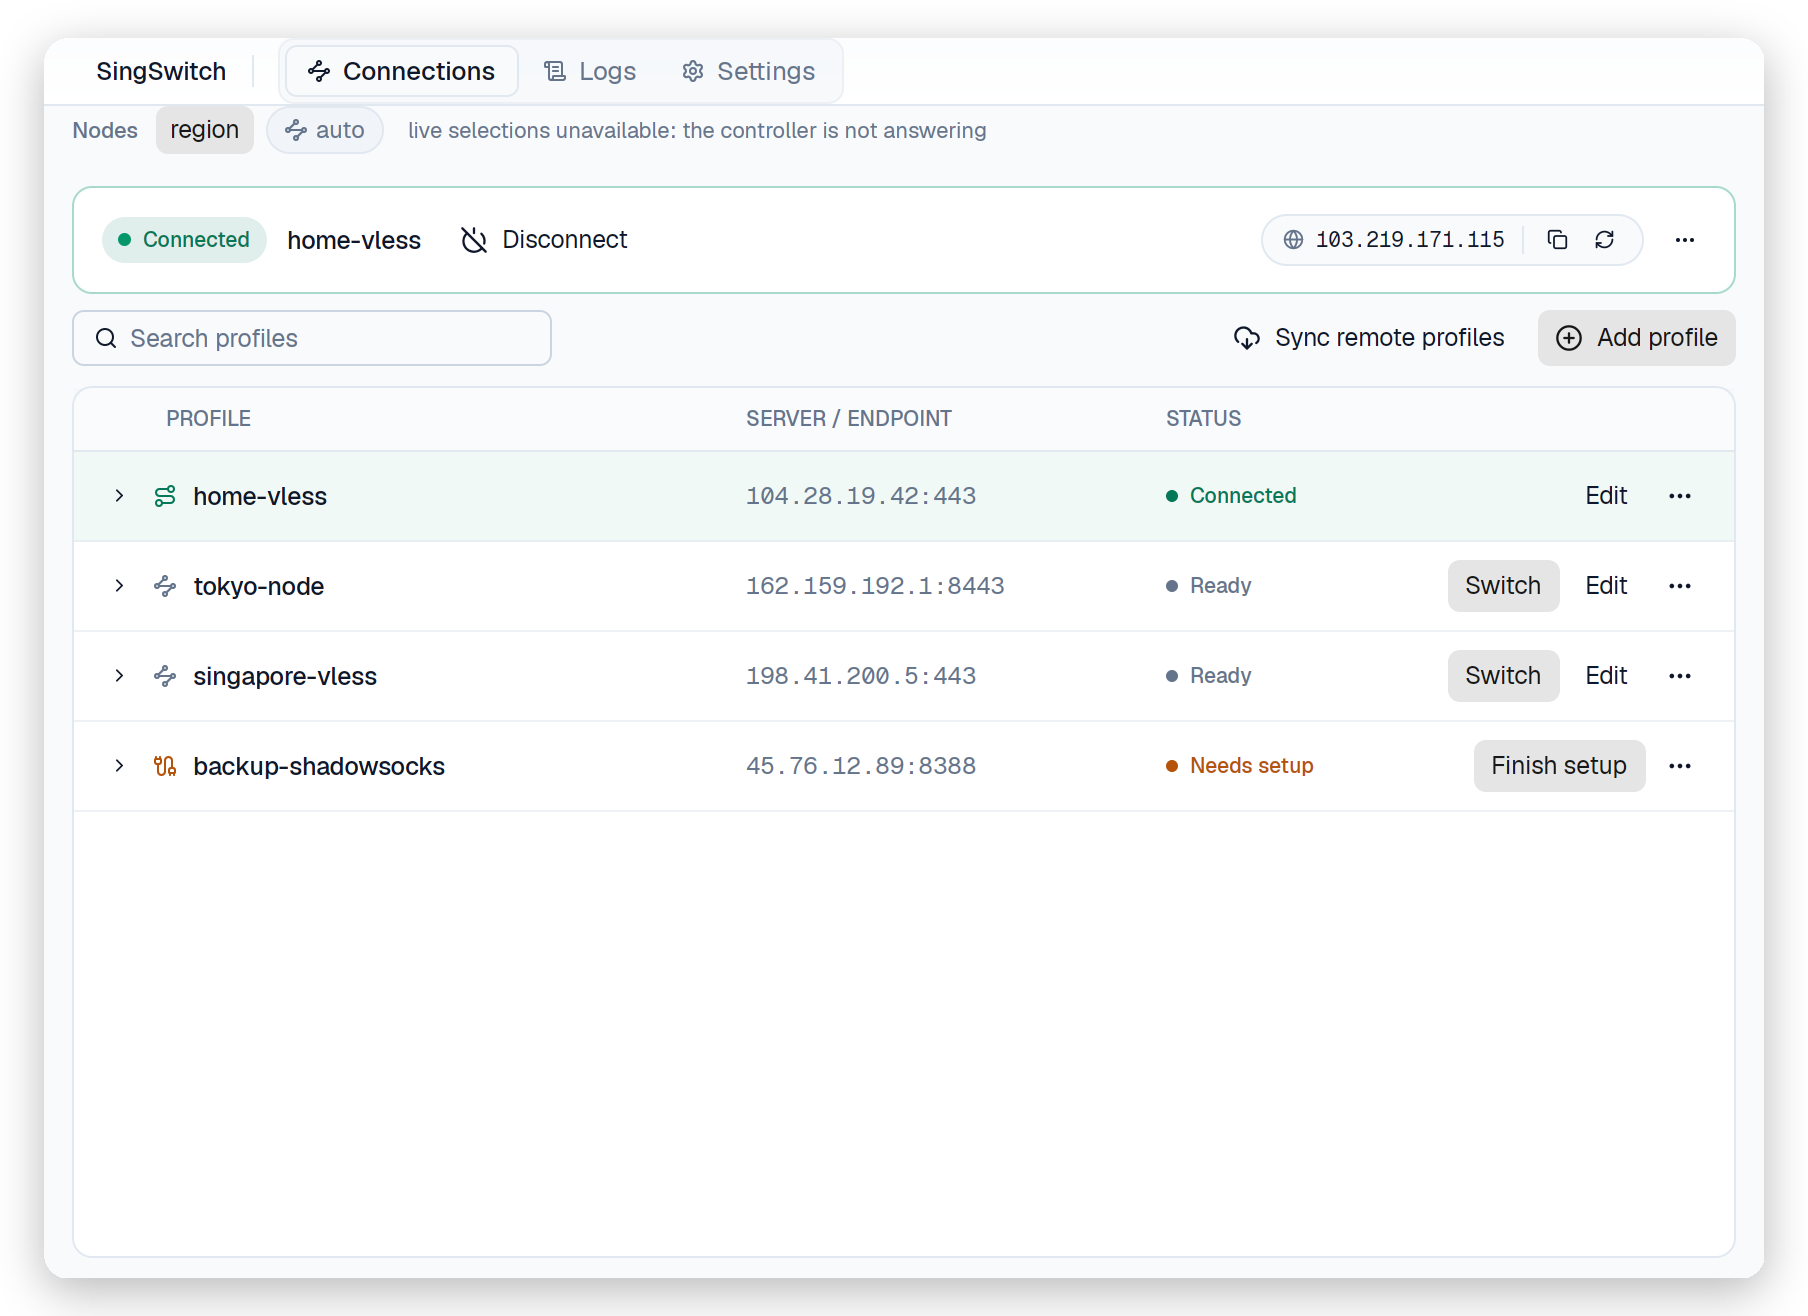
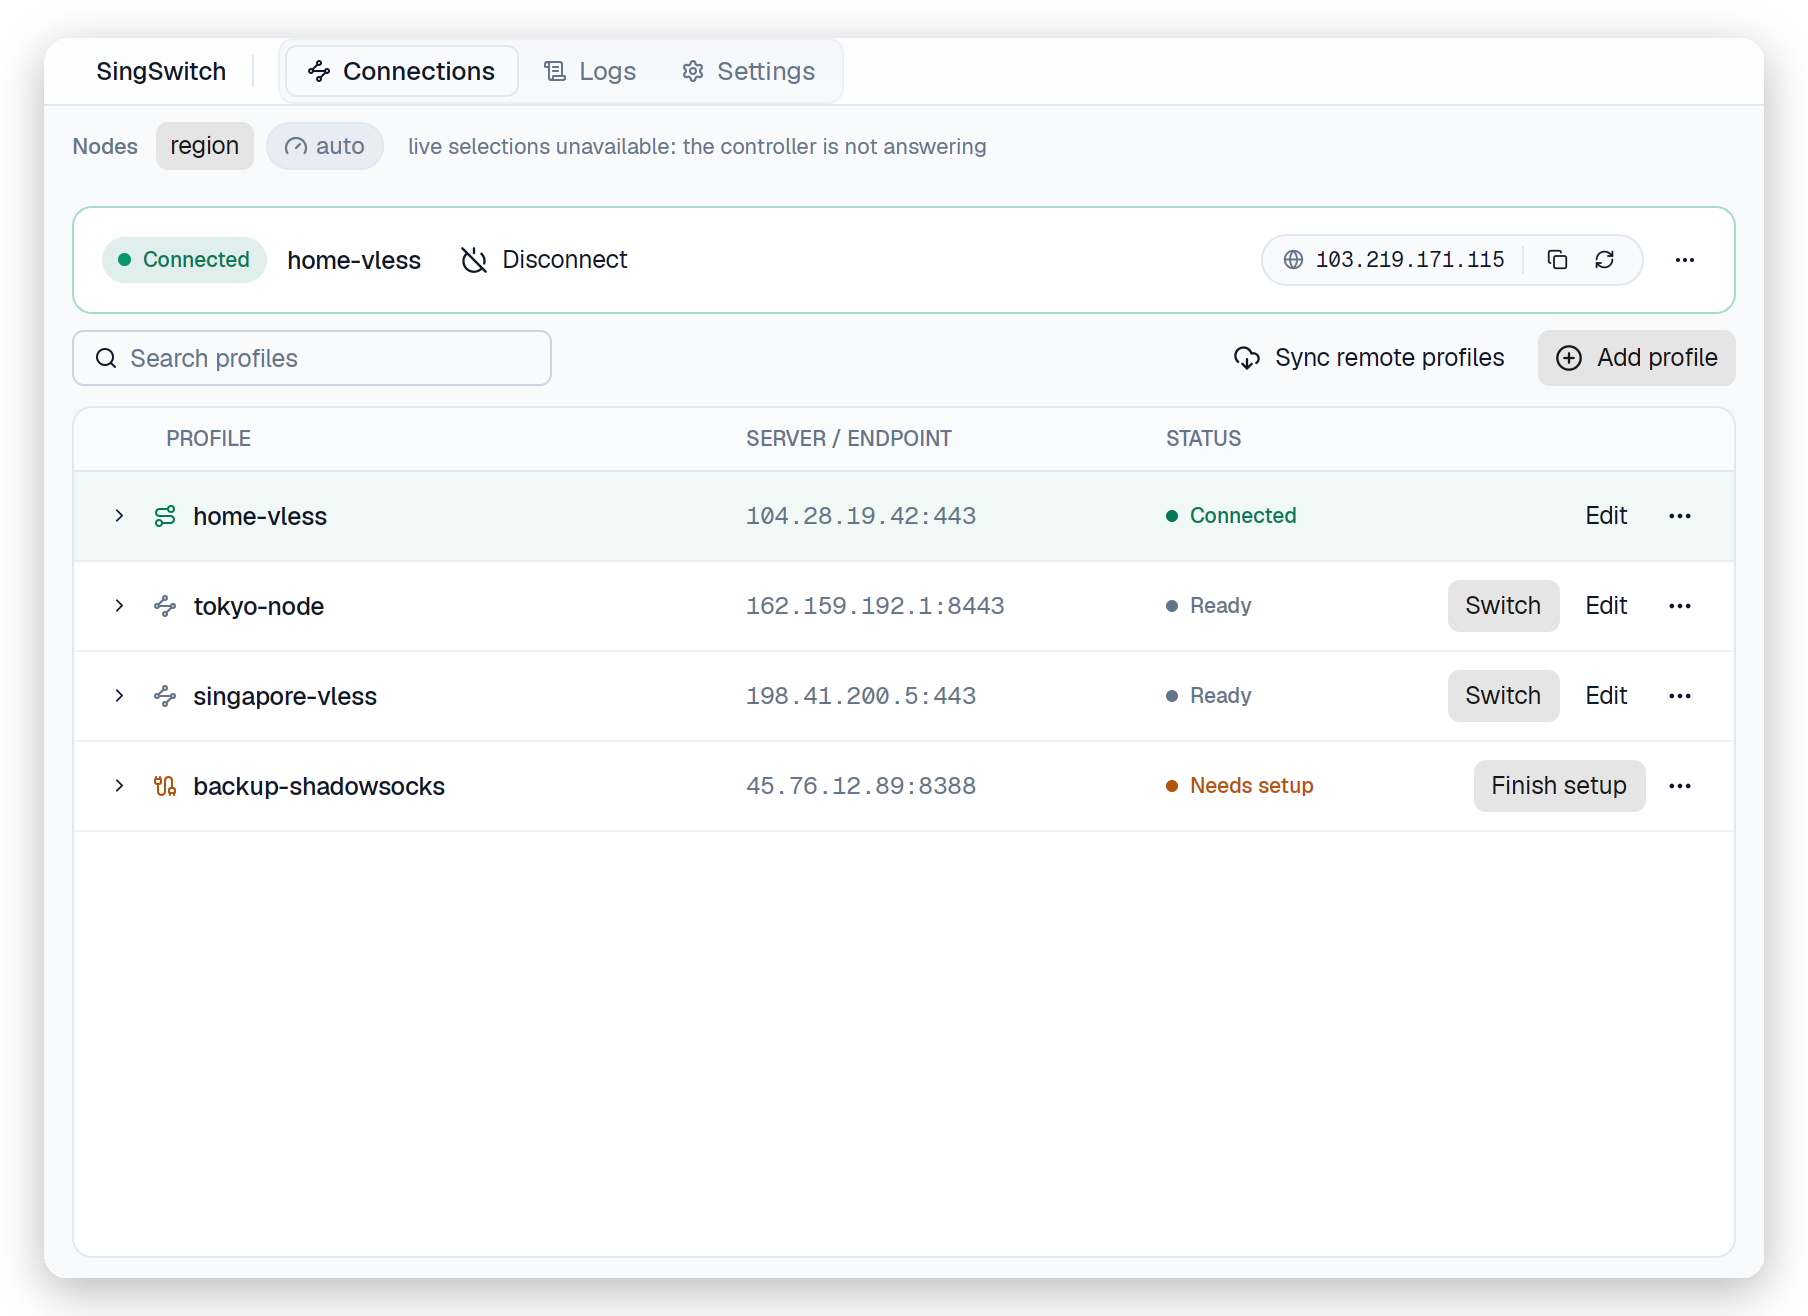
fix(ui): center the nodes strip and give both group chips one visible family
The strip used bottom-only padding, so items_center sat the chips ~5px
above the band midline. Padding is now symmetric py(8).

The urltest chip filled subtle_pill_bg, which in light theme was
#F1F5F9 against a #F8FAFC strip (1.05:1, invisible) while the selector
chip used the darker secondary button fill, so the two read as
selected-vs-not. subtle_pill_bg light is now #E8EDF3 (1.13:1, and a
distinct step from both the strip bg and the border), and the urltest
chip carries a Gauge icon so the kind is told by the icon, not the
fill.

Docs connections screenshots recaptured; gate green.

diff --git a/crates/singswitch-app/src/views/nodes.rs b/crates/singswitch-app/src/views/nodes.rs
@@ -9,7 +9,7 @@
 use gpui_kit::assets::IconName;
 use gpui_kit::component::button::{Button, ButtonVariants as _};
 use gpui_kit::component::menu::{DropdownMenu as _, PopupMenuItem};
-use gpui_kit::component::{ActiveTheme as _, Icon, Sizable as _, h_flex, v_flex};
+use gpui_kit::component::{ActiveTheme as _, Icon, Sizable as _, h_flex};
 use gpui_kit::{
     AnyElement, App, AsyncApp, Context, Entity, IntoElement, ParentElement as _, Render,
     SharedString, Styled as _, Subscription, Task, WeakEntity, Window, div,
@@ -206,7 +206,10 @@ impl NodesStrip {
 
         match group.kind {
             GroupKind::Urltest => {
-                // Picked by the daemon's own probes, so there is nothing to click.
+                // Picked by the daemon's own probes, so there is nothing to
+                // click. Same chip family as the selector below: one surface,
+                // one border, one height — the kind is carried by the icon,
+                // not by a different fill that read as selected-vs-not.
                 h_flex()
                     .flex_none()
                     .items_center()
@@ -219,7 +222,7 @@ impl NodesStrip {
                     .border_color(cx.theme().border)
                     .text_size(px(12.0))
                     .text_color(cx.theme().muted_foreground)
-                    .child(Icon::new(IconName::Waypoints).small())
+                    .child(Icon::new(IconName::Gauge).small())
                     .child(div().max_w(px(180.0)).truncate().child(label))
                     .into_any_element()
             }
@@ -267,49 +270,48 @@ impl Render for NodesStrip {
             !self.groups.is_empty() && store.selected_tab == NavTab::Profiles && !store.editing;
         let running = store.snapshot.running;
 
-        // `v_flex()` alone still lays out as a block, pushing the stage down a
-        // few pixels on every profile screen even when no group exists. A
-        // hidden strip must occupy exactly nothing.
+        // A hidden strip must occupy exactly nothing, or it pushes the stage
+        // down a few pixels on every profile screen even when no group exists.
         if !visible {
             return div().h_0().w_full();
         }
 
-        v_flex().w_full().child(
-            h_flex()
-                .w_full()
-                .items_center()
-                .gap(px(6.0))
-                .px(px(14.0))
-                .pb(px(6.0))
-                .child(
+        h_flex()
+            .w_full()
+            .items_center()
+            .gap(px(6.0))
+            .px(px(14.0))
+            // Symmetric: a bottom-only padding sat the chips above the band's
+            // midline.
+            .py(px(8.0))
+            .child(
+                div()
+                    .flex_none()
+                    .pr(px(2.0))
+                    .text_size(px(11.0))
+                    .font_weight(fonts::EMPHASIS)
+                    .text_color(cx.theme().muted_foreground)
+                    .child("Nodes"),
+            )
+            .children(
+                self.groups
+                    .iter()
+                    .map(|group| self.render_group(group, running, cx)),
+            )
+            .when_some(self.live_error.clone(), |row, reason| {
+                row.child(
                     div()
+                        .flex_1()
+                        .min_w(px(0.0))
                         .flex_none()
-                        .pr(px(2.0))
+                        .max_w(px(360.0))
+                        .truncate()
+                        .pl(px(6.0))
                         .text_size(px(11.0))
-                        .font_weight(fonts::EMPHASIS)
                         .text_color(cx.theme().muted_foreground)
-                        .child("Nodes"),
+                        .child(reason),
                 )
-                .children(
-                    self.groups
-                        .iter()
-                        .map(|group| self.render_group(group, running, cx)),
-                )
-                .when_some(self.live_error.clone(), |row, reason| {
-                    row.child(
-                        div()
-                            .flex_1()
-                            .min_w(px(0.0))
-                            .flex_none()
-                            .max_w(px(360.0))
-                            .truncate()
-                            .pl(px(6.0))
-                            .text_size(px(11.0))
-                            .text_color(cx.theme().muted_foreground)
-                            .child(reason),
-                    )
-                }),
-        )
+            })
     }
 }
 

diff --git a/crates/singswitch-app/src/theme.rs b/crates/singswitch-app/src/theme.rs
@@ -236,11 +236,17 @@ pub fn surface(cx: &App) -> gpui_kit::Hsla {
     }
 }
 
+/// Fill for chips and pills that sit on the secondary surface.
+///
+/// The strip background is `secondary` itself, so a pill must be a step
+/// darker than it or it disappears: light `#F1F5F9` was 1.05:1 against
+/// `#F8FAFC`. This keeps the chip visible in both themes (light 1.24:1,
+/// dark 1.55:1 against the strip) while staying quiet.
 pub fn subtle_pill_bg(cx: &App) -> gpui_kit::Hsla {
     if cx.theme().is_dark() {
         rgb(0x1A1C24).into()
     } else {
-        rgb(0xF1F5F9).into()
+        rgb(0xE8EDF3).into()
     }
 }
 
